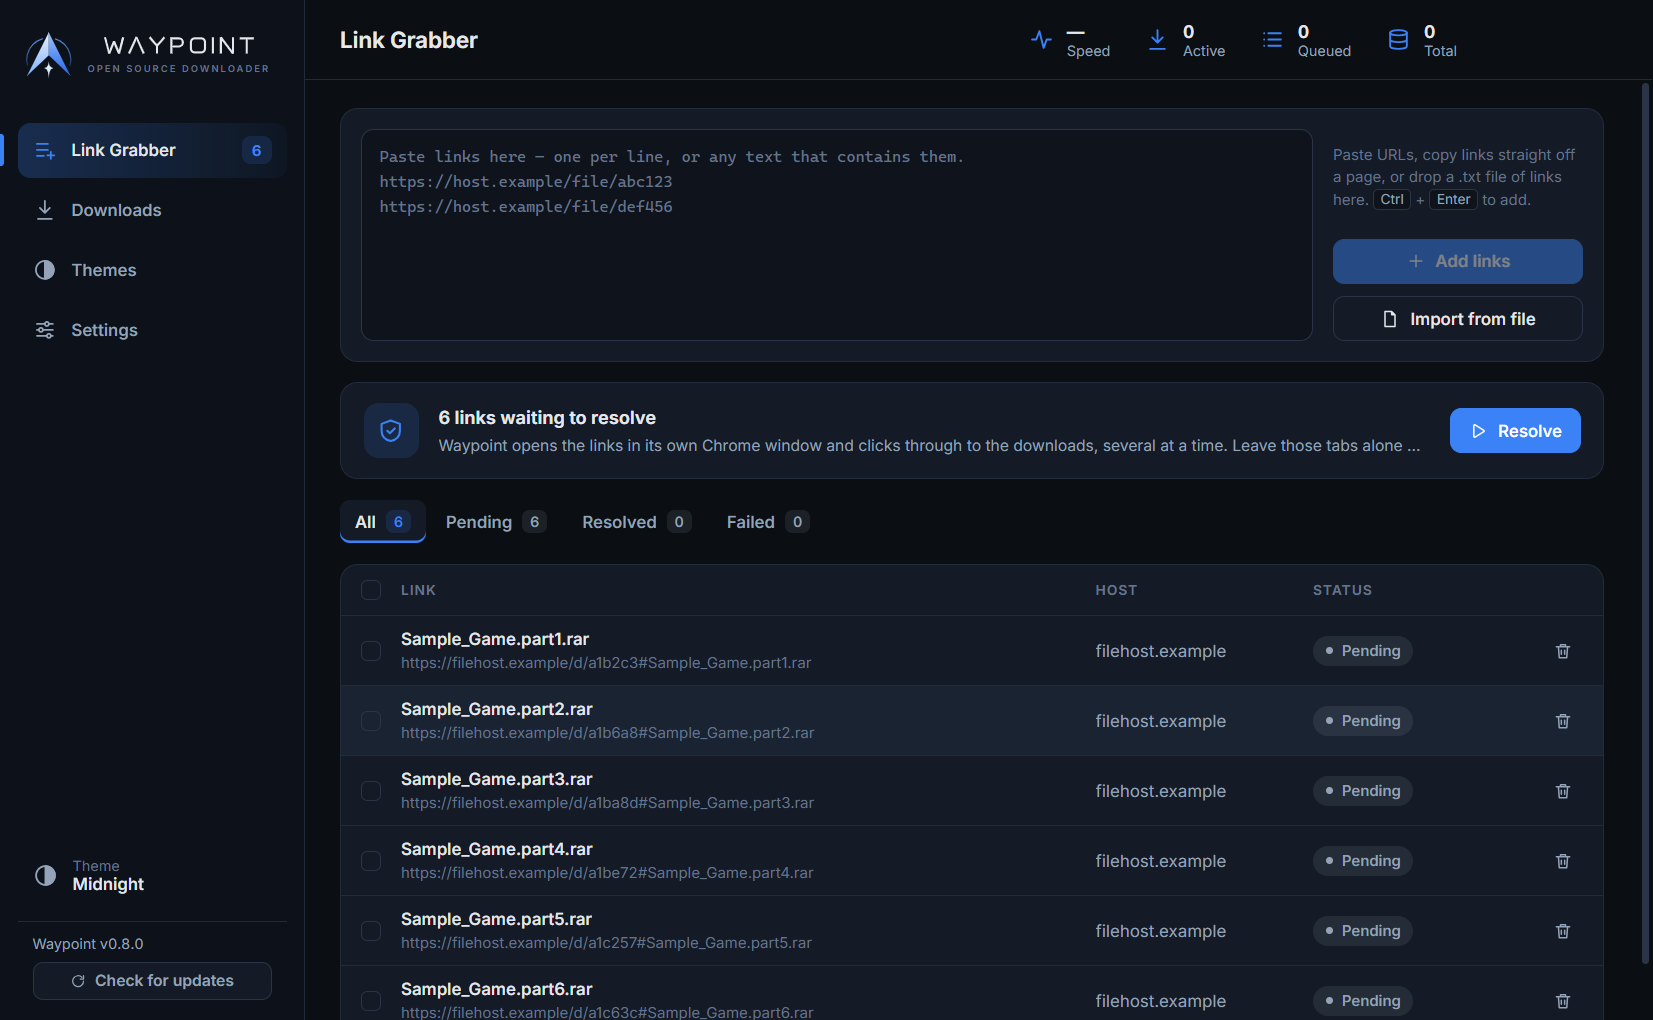
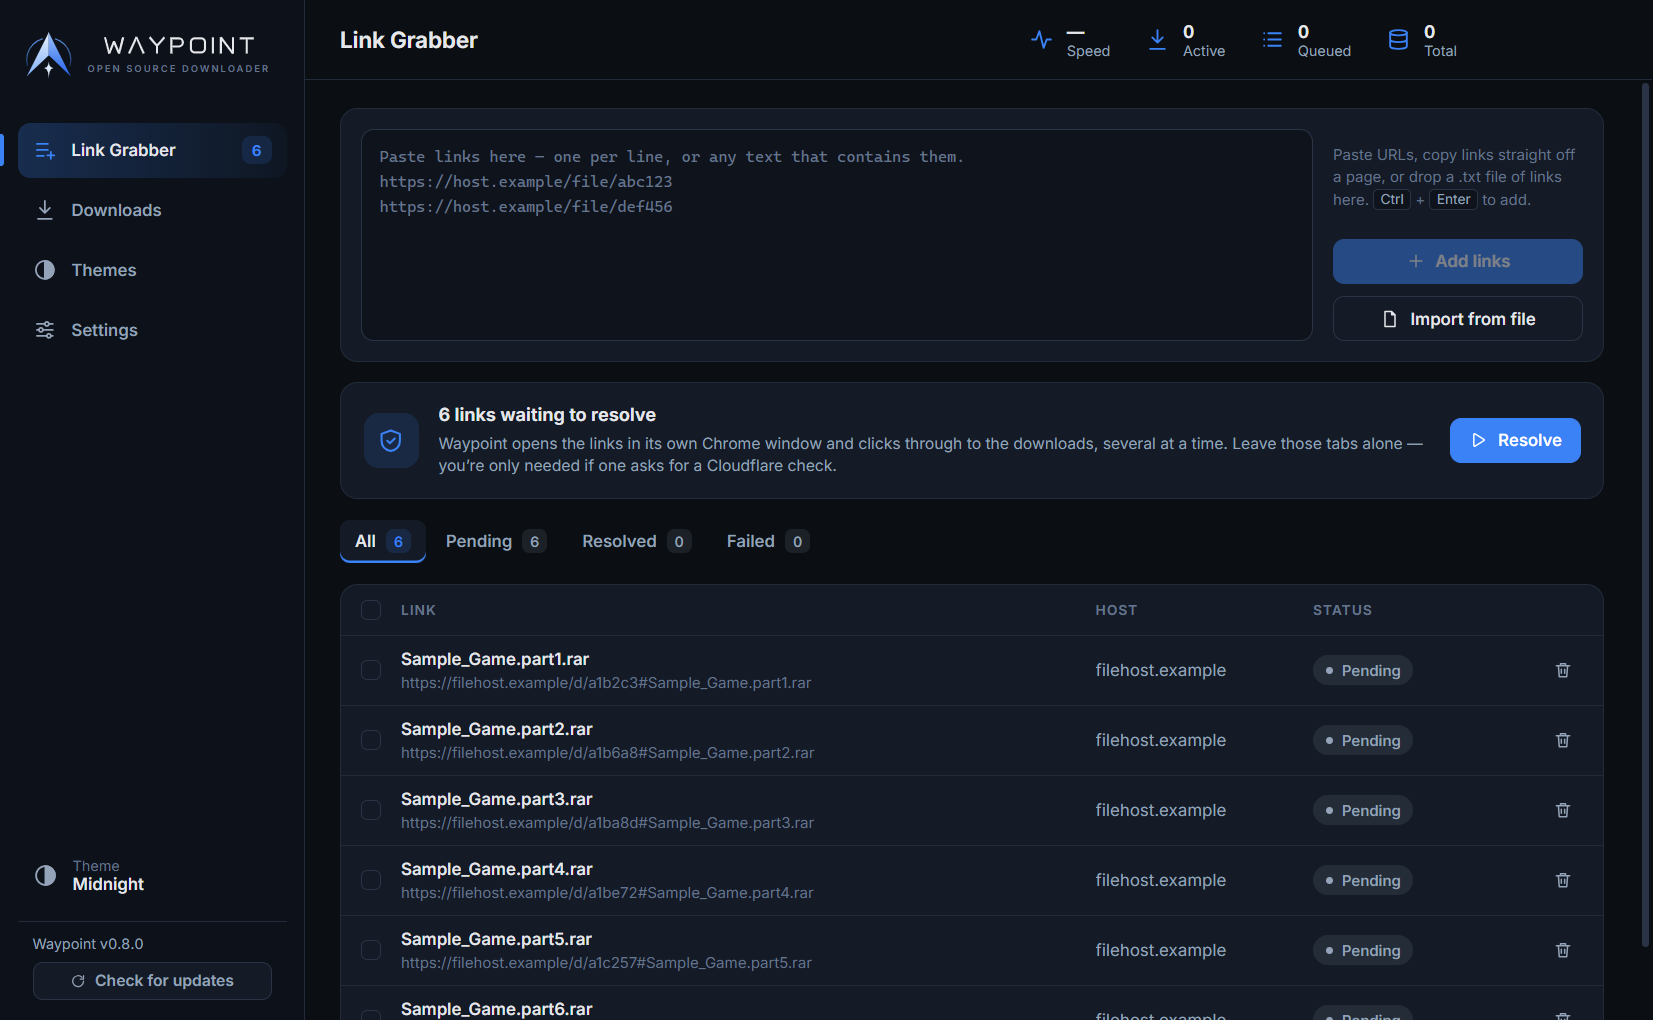
0.8.1
The resolver panel's sub-line was nowrap with an ellipsis, so the automatic-mode sentence added in 0.7.4 was cut
off before its useful half. It now clamps to two lines. Retakes the README's 02-resolve screenshot to match.

diff --git a/src/renderer/src/styles.css b/src/renderer/src/styles.css
@@ -1254,9 +1254,13 @@ kbd {
 .resolver-sub {
   color: var(--text-2);
   font-size: 12.5px;
+  line-height: 1.45;
+  /* Two lines, then an ellipsis: one line cut the key sentence off ("...you're only needed if one asks for a check"). */
+  display: -webkit-box;
+  -webkit-box-orient: vertical;
+  -webkit-line-clamp: 2;
   overflow: hidden;
-  text-overflow: ellipsis;
-  white-space: nowrap;
+  overflow-wrap: anywhere;
 }
 
 .resolver .progress {

diff --git a/CHANGELOG.md b/CHANGELOG.md
@@ -2,6 +2,13 @@
 
 All notable changes to Waypoint. Newest first.
 
+## v0.8.1
+- **The resolver panel no longer cuts its own instructions off.** The automatic-mode text on the Link Grabber
+  ran past one line and ended in "…", hiding the part that says you're only needed if a tab asks for a
+  Cloudflare check. It now wraps to two lines.
+- **A proper README.** Screenshots, a step-by-step guide, a feature list, compatibility and privacy sections —
+  see the [README](https://github.com/dopeer-creator/Waypoint#readme).
+
 ## v0.8.0
 Five small fixes found by reading the app's own code, not requested — all independent, none touching the
 resolver.
